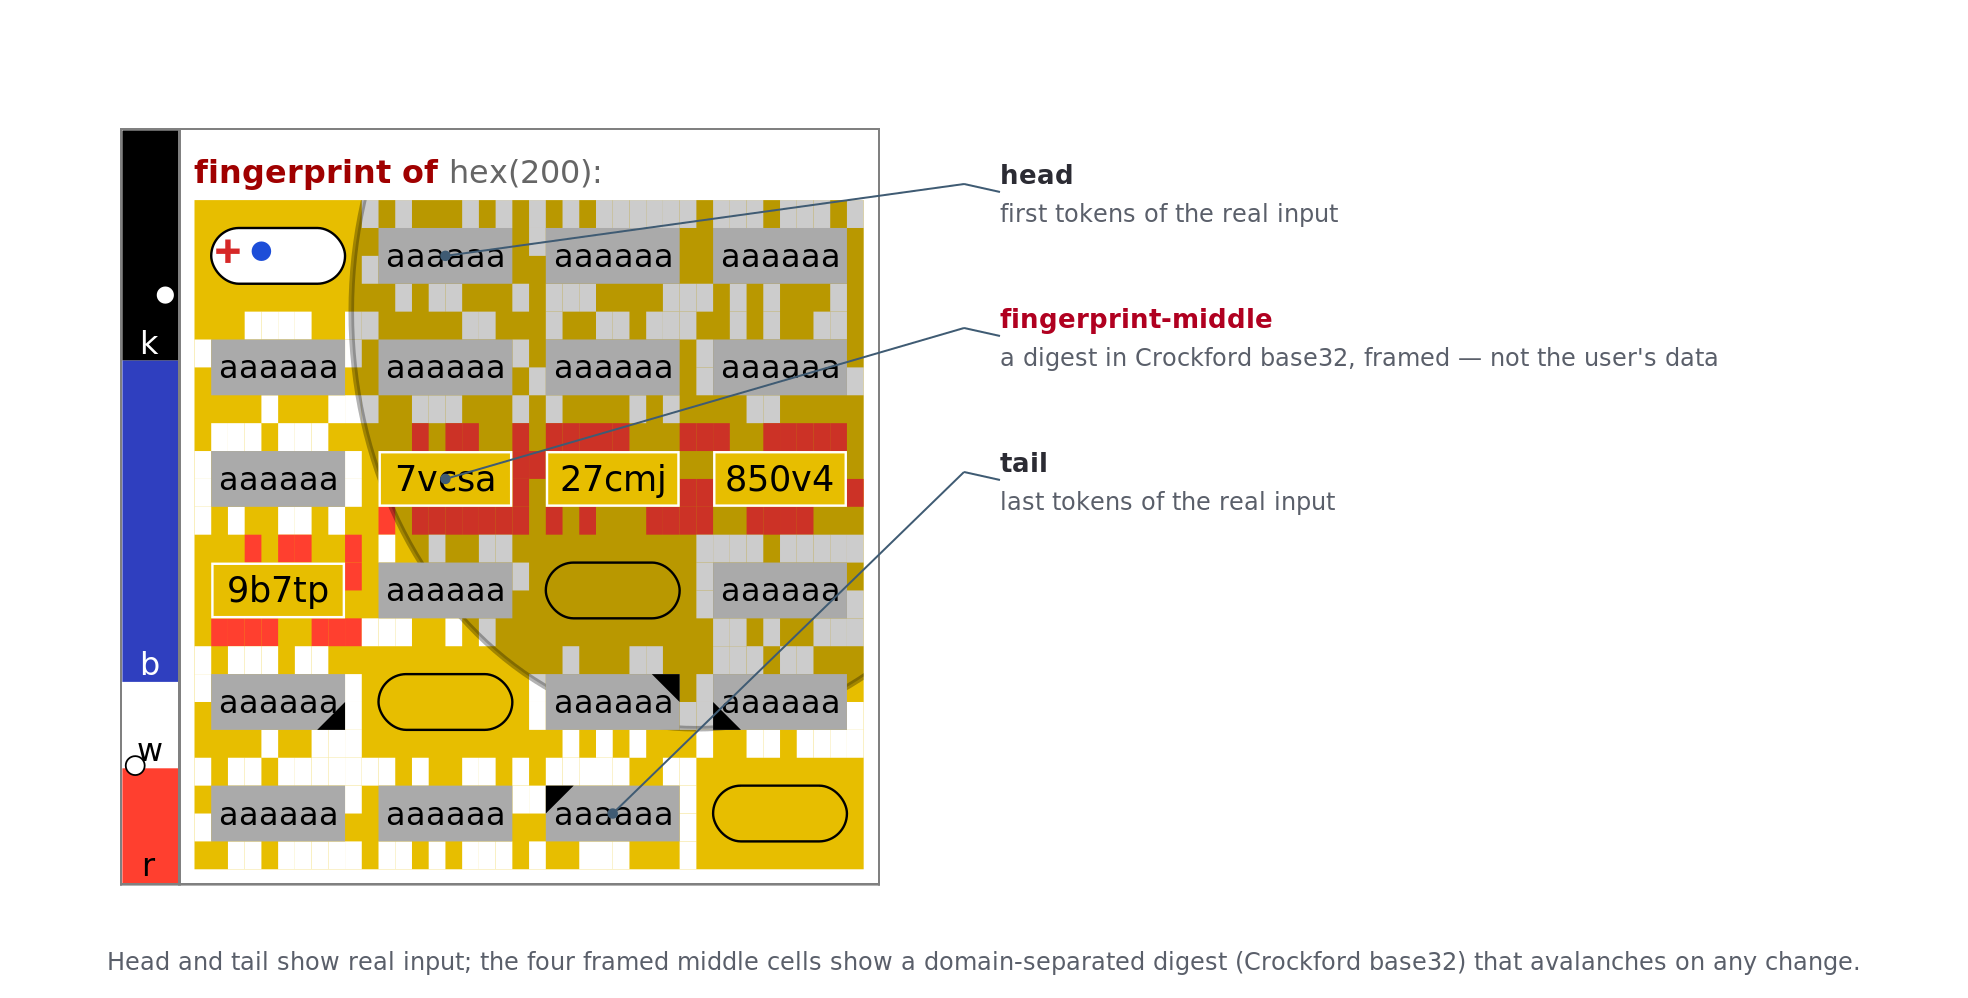
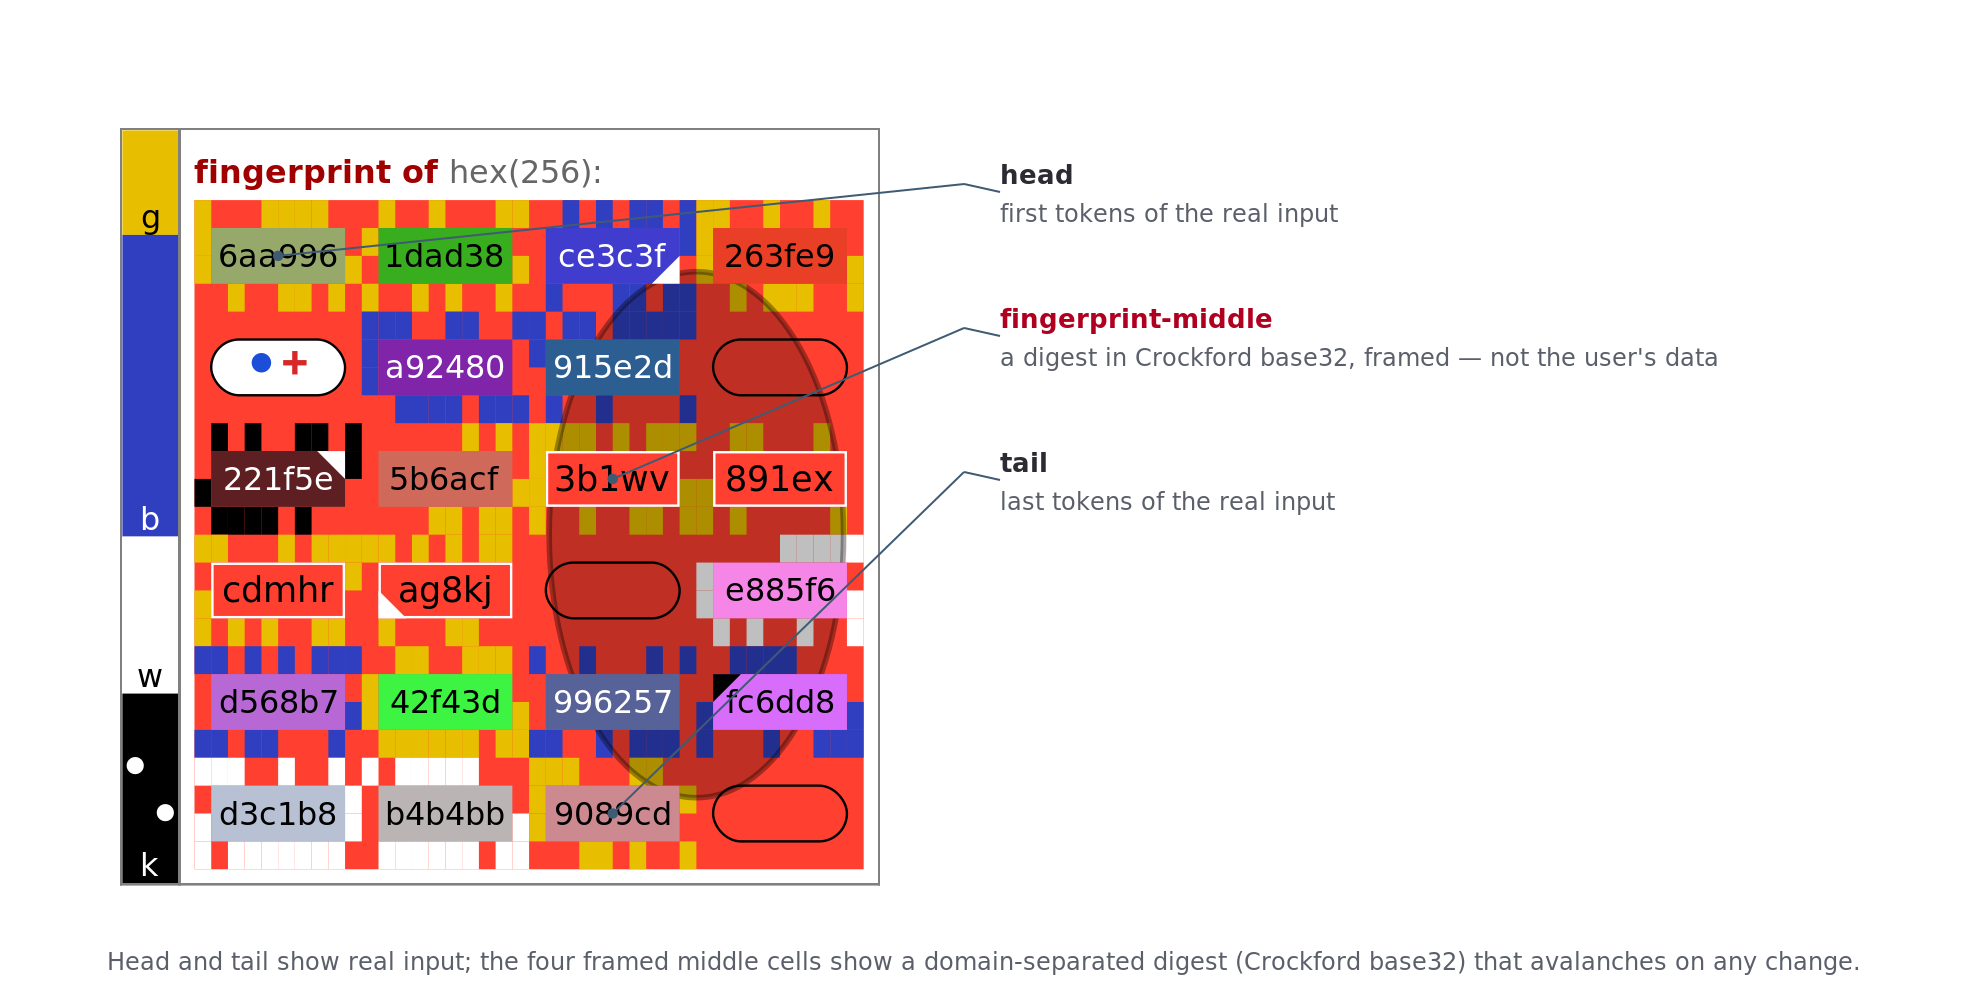
paper: de-degenerate Figure 4g — vary the large-input example
Figure 4g rendered render("a" * 200), so every nucleus was identical and every
surround box resolved to the same gold edge color — a degenerate entviz that
misrepresents the channels. Replaced with two concatenated SHA-512 hex digests
(256 hex chars / 1024 bits, deterministic), which still exercises the
head / fingerprint-middle / tail large-input layout but with real nucleus-color
and surround variation. Regenerated the figure.

Changed region(s): [[0.062, 0.1242, 0.4649, 0.9008]]

diff --git a/scripts/paper_figures.py b/scripts/paper_figures.py
@@ -325,7 +325,10 @@ def fig_crc():
 
 def fig_large_input():
     """Figure 4g — head / fingerprint-middle / tail layout for a >512-bit input."""
-    art = render("a" * 200, font_size_pt=14)
+    art = render(
+        hashlib.sha512(b"entviz large-input figure").hexdigest()
+        + hashlib.sha512(b"entviz v9 large-input demo").hexdigest(),
+        font_size_pt=14)
     root = parse(art)
     data = []
     for c in cells(root):